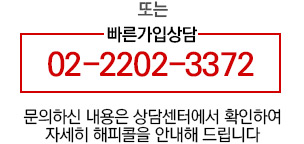
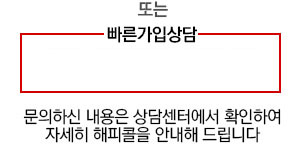
인터넷 베너 영역 텍스트 처리

diff --git a/src/module/lnb_internet.html b/src/module/lnb_internet.html
@@ -41,8 +41,8 @@
             </tr>
             <tr>
                 <td colspan="2">
-                    <div style="padding-bottom:7px;"><input type="text" name="" id="" style="width:100%"></div>
-                    <div><input type="text" name="" id="" style="width:100%"></div>
+                    <div style="padding-bottom:7px;"><input type="text" name="" id="" style="width:100%" /></div>
+                    <div><input type="text" name="" id="" style="width:100%" /></div>
                 </td>
             </tr>
             <tr>
@@ -69,8 +69,8 @@
     <div class="btnSec">
         <a href="#" class="btn-basic"><span>가입상담 신청하기</span></a>
     </div>
-    <div class="outboundBnr">
-        <img src="../images/page/internet/bnrOutbound.jpg" alt="">
+    <div class="outboundBnr" style="background-image: url(../images/page/internet/bnrOutbound.jpg);">
+        <strong>02-2202-3372</strong>
     </div>
     
 </div>

diff --git a/dist/css/module.css b/dist/css/module.css
@@ -200,7 +200,8 @@
 .writeInfomationSec.type-internet .agreeCheck input[type=checkbox]{width:20px;height:20px}
 .writeInfomationSec.type-internet .agreeCheck label{font-weight:700}
 .writeInfomationSec.type-internet .btnSec{text-align:center}
-.writeInfomationSec.type-internet .outboundBnr{padding:15px 0}
+.writeInfomationSec.type-internet .outboundBnr{box-sizing:border-box;margin:15px auto 0;padding-top:50px;width:304px;height:160px;background-repeat:no-repeat}
+.writeInfomationSec.type-internet .outboundBnr strong{display:inline-block;width:100%;text-align:center;font-size:30px;color:#d50009}
 
 
 /*! 핸드폰 리스트 아이템 : module/phoneItem.scss */

diff --git a/dist/html/internet.html b/dist/html/internet.html
@@ -115,8 +115,8 @@
                         <div class="btnSec">
                             <a href="#" class="btn-basic"><span>가입상담 신청하기</span></a>
                         </div>
-                        <div class="outboundBnr">
-                            <img src="../images/page/internet/bnrOutbound.jpg" alt="">
+                        <div class="outboundBnr" style="background-image: url(../images/page/internet/bnrOutbound.jpg);">
+                            <strong>02-2202-3372</strong>
                         </div>
 
                     </div>

diff --git a/src/html/internet.html b/src/html/internet.html
@@ -115,8 +115,8 @@
                         <div class="btnSec">
                             <a href="#" class="btn-basic"><span>가입상담 신청하기</span></a>
                         </div>
-                        <div class="outboundBnr">
-                            <img src="../images/page/internet/bnrOutbound.jpg" alt="">
+                        <div class="outboundBnr" style="background-image: url(../images/page/internet/bnrOutbound.jpg);">
+                            <strong>02-2202-3372</strong>
                         </div>
 
                     </div>

diff --git a/dist/html/happyPoint1000.html b/dist/html/happyPoint1000.html
@@ -1,0 +1,13 @@
+<div class="mod-accItem" point="1000">
+    <div class="thumb"><img src="../images/temp/@acc.jpg" alt=""></div>
+    <label for="">[슈피겐] 차량용충전기 1000 point</label>
+    <div class="act">
+        <select name="" id="" onchange="happyPointFn.calc();">
+            <option value="1">1</option>
+            <option value="2">2</option>
+            <option value="3">3</option>
+            <option value="10">10</option>
+        </select>
+        <a href="#"><img src="../images/common/btnAccDel.gif" alt=""></a>
+    </div>
+</div>

diff --git a/dist/html/happyPoint.html b/dist/html/happyPoint.html
@@ -1,0 +1,13 @@
+<div class="mod-accItem" point="200">
+    <div class="thumb"><img src="../images/temp/@acc.jpg" alt=""></div>
+    <label for="">[슈피겐] 차량용충전기 200 point</label>
+    <div class="act">
+        <select name="" id="" onchange="happyPointFn.calc();">
+            <option value="1">1</option>
+            <option value="2">2</option>
+            <option value="3">3</option>
+            <option value="10">10</option>
+        </select>
+        <a href="#"><img src="../images/common/btnAccDel.gif" alt=""></a>
+    </div>
+</div>

diff --git a/src/css/module.css b/src/css/module.css
@@ -708,7 +708,18 @@
 	text-align: center; }
 
 .writeInfomationSec.type-internet .outboundBnr {
-	padding: 15px 0; }
+	box-sizing: border-box;
+	margin: 15px auto 0;
+	padding-top: 50px;
+	width: 304px;
+	height: 160px;
+	background-repeat: no-repeat; }
+	.writeInfomationSec.type-internet .outboundBnr strong {
+		display: inline-block;
+		width: 100%;
+		text-align: center;
+		font-size: 30px; 
+		color: #d50009;}
 
 
 

diff --git a/src/css/module/lnb.css b/src/css/module/lnb.css
@@ -298,4 +298,15 @@
 	text-align: center; }
 
 .writeInfomationSec.type-internet .outboundBnr {
-	padding: 15px 0; }
+	box-sizing: border-box;
+	margin: 15px auto 0;
+	padding-top: 50px;
+	width: 304px;
+	height: 160px;
+	background-repeat: no-repeat; }
+	.writeInfomationSec.type-internet .outboundBnr strong {
+		display: inline-block;
+		width: 100%;
+		text-align: center;
+		font-size: 30px; 
+		color: #d50009;}

diff --git a/src/scss/module/lnb.scss b/src/scss/module/lnb.scss
@@ -102,6 +102,10 @@
     label{font-weight:700;}
   }
   .btnSec{text-align:center;}
-  .outboundBnr{padding:15px 0;}
+
+  // 가입상담베너 영역 글자 추가.
+  .outboundBnr{margin:15px auto 0;box-sizing:border-box;padding-top:50px;width:304px;height:160px;background-repeat:no-repeat;
+    strong{display:inline-block; color: #d50009;width:100%;text-align:center;font-size:30px;}
+  }
 
 }
